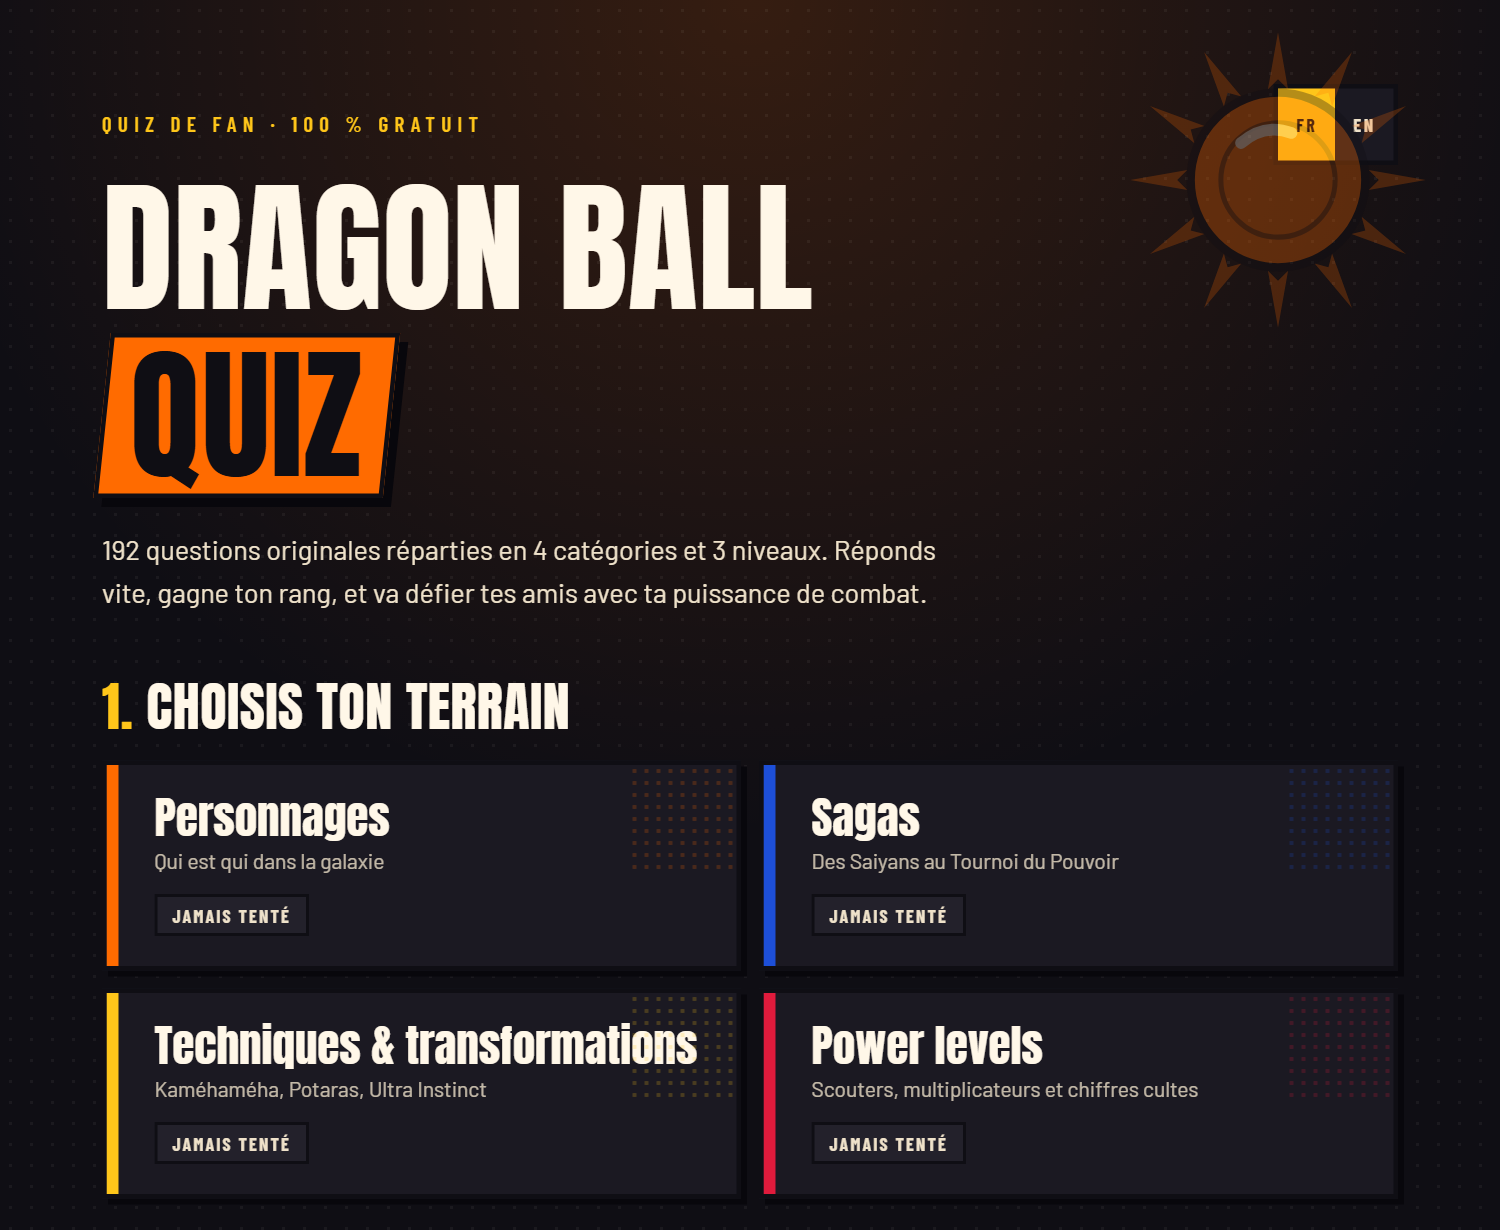
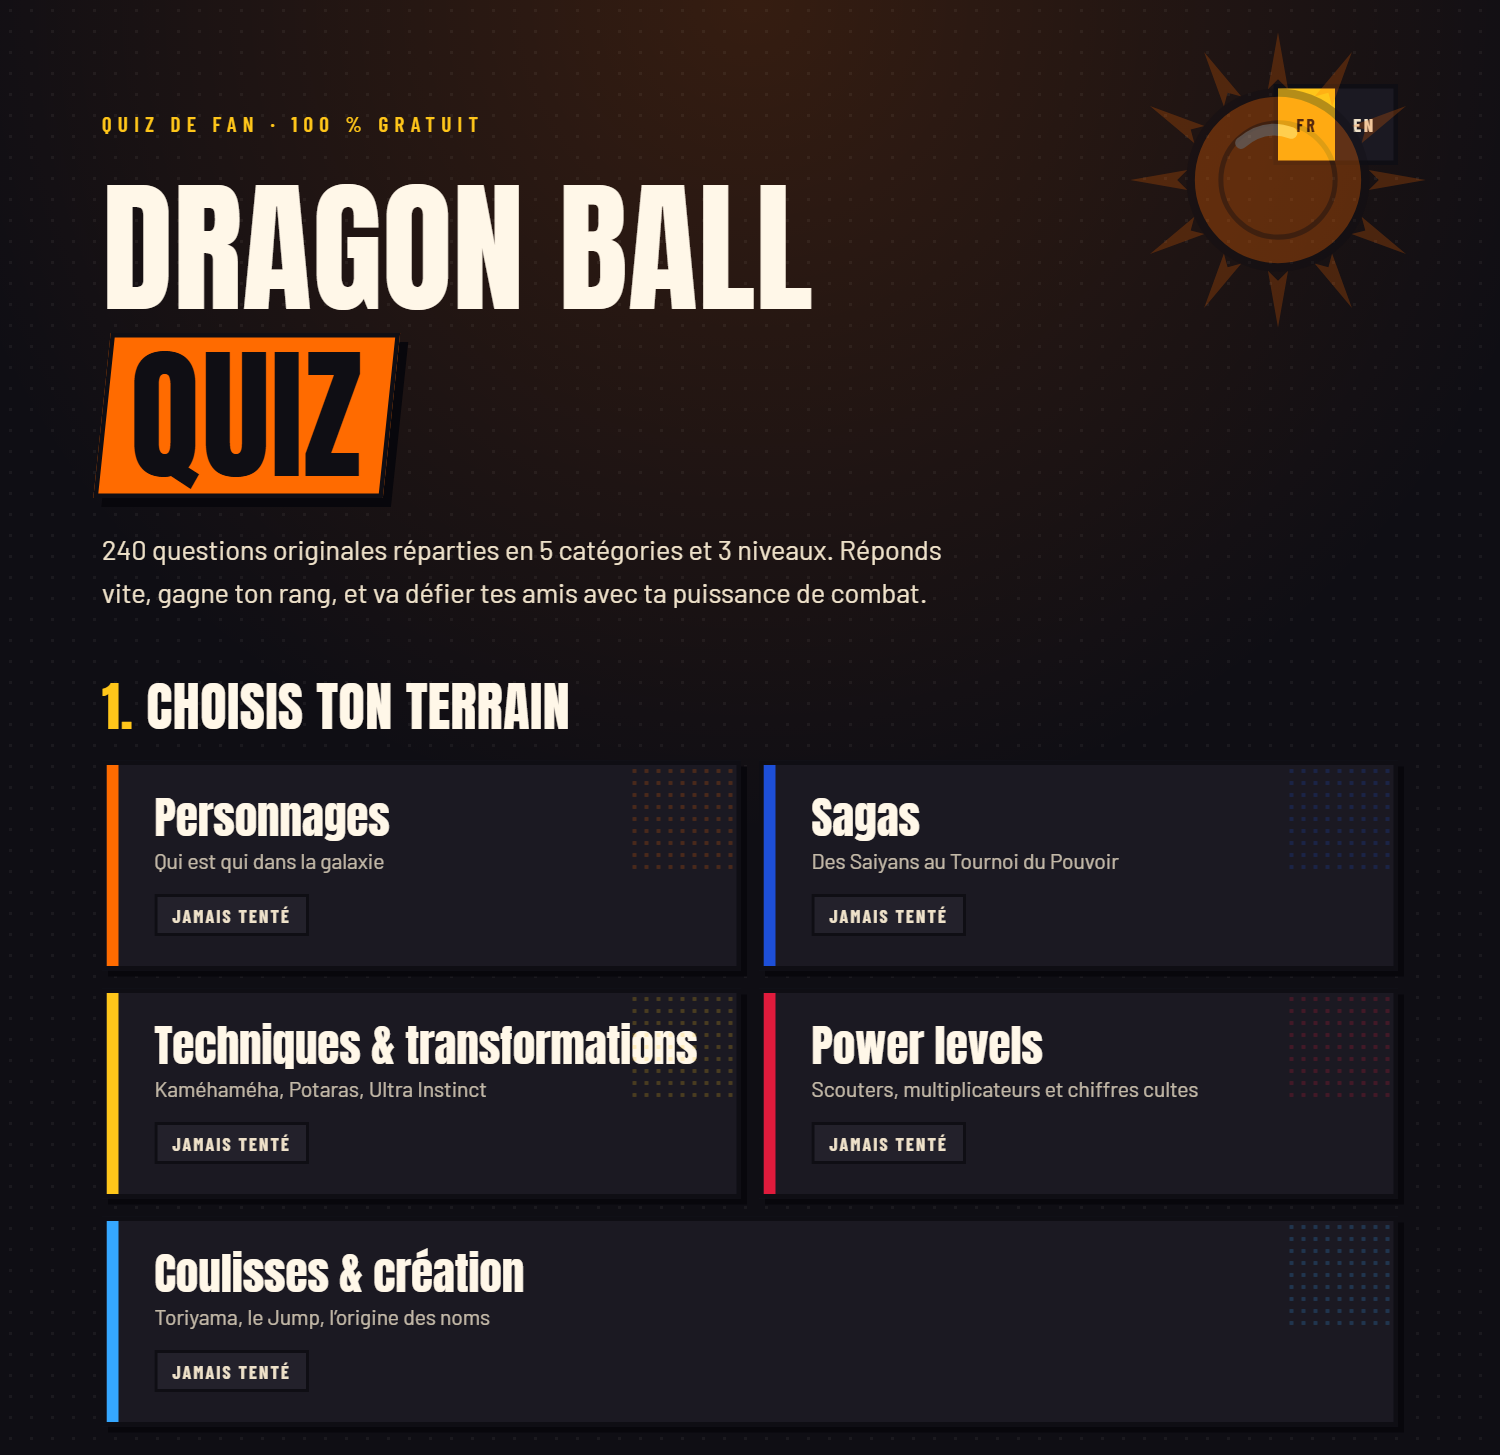
Recadre la capture d'accueil sur les cinq categories
La hauteur etait calee sur deux rangees de cartes ; la troisieme rangee
etait coupee en deux. A 1000 px de large, la derniere carte se termine a
951 px et le titre suivant commence a 991 px : 970 tombe entre les deux.

diff --git a/README.md b/README.md
@@ -7,7 +7,7 @@ sans backend : les meilleurs scores vivent dans le `localStorage` du visiteur.
 
 ## Aperçu
 
-![Écran d'accueil : titre en lettrage manga, choix de catégorie et de niveau](docs/apercu-accueil.png)
+![Écran d'accueil : titre en lettrage manga et les cinq cartes de catégorie](docs/apercu-accueil.png)
 
 | En partie | Fin de partie |
 | --- | --- |
